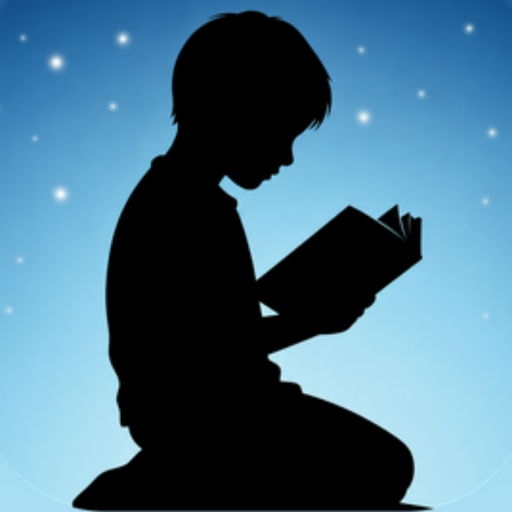
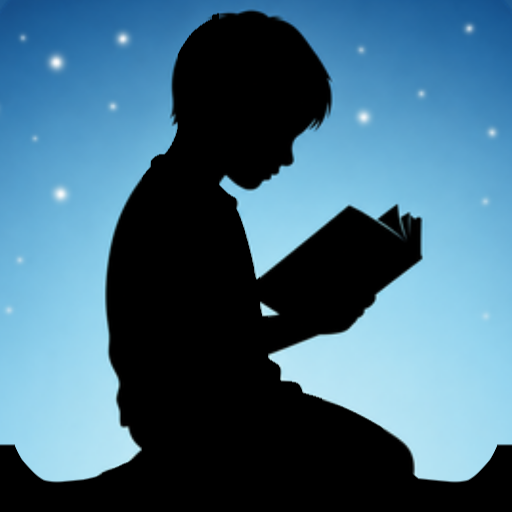
La colline de l'icône court d'un bord à l'autre, et suit la découpe du téléphone
La colline ne touchait le bas de l'image que sur les 60% du milieu : il manquait
102px de chaque côté, exactement 20%. Aux extrémités elle laissait voir le ciel,
et on apercevait ses deux pointes — d'où l'impression d'une colline posée là,
coupée, au lieu d'un paysage qui continue hors du cadre.

On ne redessine rien et on ne touche pas au personnage : on relève la ligne du
sol existante et on la CONTINUE par une courbe douce jusque dans les deux coins
du bas. Le monticule et l'enfant restent intacts au pixel près.

Un deuxième défaut est apparu en testant les masques réels. Un téléphone ne
montre jamais l'icône carrée : iOS la découpe en « squircle », dont le contour
bas REMONTE dans les coins. Un sol plat y laissait encore un liseré de ciel. Le
sol suit donc maintenant la courbe du masque, borné à 13% de hauteur — au-delà
on est hors de la forme visible de toute façon.

Mesuré sous le masque réel d'iOS : le ciel le long du contour bas passe de
32,6% à 5,1%. Le bord bas de l'image est sombre sur 100% de sa largeur, contre
60,2%. Les trois tailles (512, 192, 180) sont régénérées ensemble.

Retiré au passage : le panneau d'audience et tout son comptage, à la demande.
Le Profil retrouve exactement la géométrie qu'il avait avant qu'on l'ajoute.

Vérifié : géométrie identique à la v86 sur les huit écrans des deux
plateformes, 40 cas de clavier, touche de validation sur les quatre champs,
plafond de six joueurs.

diff --git a/index.html b/index.html
@@ -1557,13 +1557,6 @@
   .hero-verse-card.long .hero-verse-text{ font-size:clamp(0.84rem, 2.8vw, 1rem); line-height:1.42; }
   .hero-verse-ref{ font-family:'Poppins',sans-serif; font-weight:700; font-size:0.82rem; letter-spacing:0.08em; text-transform:uppercase; color:var(--gold-deep); }
 
-  /* ---------- Audience du jeu (créateur seulement) ---------- */
-  .stats-jeu{ margin-top:0.9rem; }
-  .sj-ligne{ display:flex; align-items:baseline; gap:0.55rem; padding:0.28rem 0; }
-  .sj-nb{ font-family:'Poppins',sans-serif; font-weight:700; font-size:1.35rem; color:var(--primary); min-width:3.2rem; }
-  .sj-lbl{ font-size:0.88rem; color:var(--ink-soft); }
-  .sj-note{ margin:0.5rem 0 0; font-size:0.76rem; color:var(--ink-soft); opacity:0.8; line-height:1.45; }
-
   /* ---------- Partage du résultat ---------- */
   .end-bottom{ margin-top:auto; }
   .share-line{ display:flex; align-items:center; justify-content:center; gap:0.45rem; margin:0.4rem auto 0; background:none; border:none; color:rgba(255,255,255,0.94); font-weight:600; font-size:0.86rem; text-shadow:0 1px 8px rgba(0,0,0,0.45); padding:0.4rem 0.8rem; }
@@ -3474,55 +3467,6 @@ function initSupa(){
 }
 function onlineConfigured(){ return !!(SUPABASE_URL && SUPABASE_ANON_KEY && window.supabase); }
 
-/* ===================== COMBIEN DE MONDE JOUE ? =====================
-   Deux chiffres, pas un de plus : combien d'appareils ont ouvert le jeu, et
-   combien l'ont installé sur leur écran d'accueil.
-   CE QUI PART D'ICI : un identifiant tiré au hasard sur l'appareil, la date, et
-   « installé oui/non ». Pas de nom, pas de couleur, pas de score, pas d'adresse,
-   aucun cookie. L'identifiant ne dit rien de qui que ce soit — il sert seulement
-   à ne pas compter dix fois le même téléphone.
-   ET SEULEMENT SI LA TABLE EXISTE. Tant qu'elle n'a pas été créée côté Supabase,
-   l'appel échoue silencieusement et rien n'est enregistré nulle part : le
-   comptage ne démarre que le jour où on le décide vraiment.
-   UNE FOIS PAR JOUR AU PLUS, pour ne pas bavarder à chaque ouverture. */
-function idAppareil(){
-  try{
-    let v = localStorage.getItem("bt_appareil");
-    if(!v){ v = Math.random().toString(36).slice(2, 12) + Date.now().toString(36); localStorage.setItem("bt_appareil", v); }
-    return v;
-  }catch(e){ return null; }
-}
-function compteVisite(){
-  const id = idAppareil();
-  if(!id) return;
-  const jour = new Date().toISOString().slice(0, 10);
-  try{ if(localStorage.getItem("bt_compte_jour") === jour) return; }catch(e){}
-  const supa = initSupa();
-  if(!supa) return;
-  /* on n'envoie PAS la première visite : la base la pose elle-même à la
-     création, et ne pas la renvoyer garantit qu'une visite suivante ne
-     l'écrase pas. */
-  try{
-    supa.from("visites").upsert({ id: id, derniere_visite: new Date().toISOString(), installe: !!isStandalone },
-                                { onConflict: "id" })
-      .then((r)=>{ if(!r || !r.error){ try{ localStorage.setItem("bt_compte_jour", jour); }catch(e){} } })
-      .catch(()=>{});
-  }catch(e){}
-}
-/* Les chiffres ne se lisent que par une fonction d'agrégat : elle ne rend que
-   des totaux, jamais les lignes. Même en fouillant, on ne peut pas remonter la
-   liste des appareils. */
-function litStats(){
-  const supa = initSupa();
-  if(!supa) return Promise.resolve(null);
-  try{
-    return supa.rpc("stats_visites").then((r)=>{
-      if(!r || r.error || !r.data) return null;
-      const d = Array.isArray(r.data) ? r.data[0] : r.data;
-      return d ? { appareils:+d.appareils||0, installations:+d.installations||0, actifs:+d.actifs_30j||0 } : null;
-    }).catch(()=>null);
-  }catch(e){ return Promise.resolve(null); }
-}
 
 /* ===================== SEED / DECK SYNCHRONISÉ ===================== */
 function mulberry32(a){ return function(){ a|=0; a=a+0x6D2B79F5|0; let t=Math.imul(a^a>>>15,1|a); t=t+Math.imul(t^t>>>7,61|t)^t; return ((t^t>>>14)>>>0)/4294967296; }; }
@@ -6905,25 +6849,6 @@ function promptCreator(){
   });
 }
 
-/* Le panneau se pose TOUT EN BAS de l'écran, sous la couleur. Placé plus haut,
-   il repoussait le champ du nom vers le bas — et le champ devait alors remonter
-   de 200px à l'ouverture du clavier, au lieu de ne pas bouger. Une information
-   qu'on consulte ne doit pas gêner la tâche qu'on est venu faire.
-   Il n'existe que pour le créateur — c'est un choix d'AFFICHAGE : il
-   garde le jeu net pour tout le monde. Ce n'est pas un verrou : le badge vit sur
-   le téléphone, quelqu'un qui connaîtrait le code verrait les mêmes chiffres.
-   Pour deux totaux anonymes, c'est sans conséquence. */
-function remplitStats(){
-  if(!profile.isCreator) return;
-  const note = document.getElementById("sjNote");
-  litStats().then((s)=>{
-    if(!document.getElementById("statsJeu")) return;       // l'écran a changé entre-temps
-    if(!s){ if(note) note.textContent = "Comptage pas encore activé (la table reste à créer)."; return; }
-    const pose = (id, n)=>{ const e = document.getElementById(id); if(e) e.textContent = n.toLocaleString("fr-FR"); };
-    pose("sjInstall", s.installations); pose("sjAppareils", s.appareils); pose("sjActifs", s.actifs);
-    if(note) note.textContent = "Compté sans nom, sans cookie : un appareil, une ligne.";
-  });
-}
 function renderProfile(){
   const el=document.createElement("div"); el.className="screen";
   el.innerHTML = `
@@ -6940,17 +6865,9 @@ function renderProfile(){
     <div class="color-row">
       ${TEAM_COLORS.map(c=>`<button class="color-dot${c===profile.color?' sel':''}" style="background:${c}" data-c="${c}" onclick="setProfileColor('${c}')" aria-label="couleur"></button>`).join("")}
     </div>
-    ${profile.isCreator?`<div class="card stats-jeu" id="statsJeu">
-      <h2>Audience du jeu</h2>
-      <div class="sj-ligne"><span class="sj-nb" id="sjInstall">—</span><span class="sj-lbl">installations</span></div>
-      <div class="sj-ligne"><span class="sj-nb" id="sjAppareils">—</span><span class="sj-lbl">appareils au total</span></div>
-      <div class="sj-ligne"><span class="sj-nb" id="sjActifs">—</span><span class="sj-lbl">actifs ces 30 jours</span></div>
-      <p class="sj-note" id="sjNote">Lecture en cours…</p>
-    </div>`:""}
     <div class="flex-sp"></div>
     <button class="btn-primary" onclick="saveProfileAndBack()">Enregistrer</button>
   `;
-  if(profile.isCreator) setTimeout(remplitStats, 0);
   return el;
 }
 
@@ -8157,11 +8074,6 @@ const IS_ANDROID = /Android/i.test(navigator.userAgent);
    sur iPad/desktop web, elle n'a rien à faire. */
 const IS_PHONE = (IS_IOS || IS_ANDROID) && Math.min(screen.width || 9999, screen.height || 9999) <= 500;
 if(isStandalone){ document.documentElement.classList.add("is-standalone"); }
-/* Comptage de l'audience : APRÈS le démarrage, jamais pendant. Il est repoussé
-   hors du chemin de lancement (et n'a lieu qu'une fois par jour), pour qu'il ne
-   coûte pas un millième de seconde à l'ouverture du jeu. S'il n'y a pas de
-   réseau, ou si la table n'existe pas encore, il ne se passe simplement rien. */
-setTimeout(()=>{ try{ compteVisite(); }catch(e){} }, 3000);
 function fsAvailable(){ const el = document.documentElement; return !isStandalone && !!(el.requestFullscreen || el.webkitRequestFullscreen); }
 function fsActive(){ return !!(document.fullscreenElement || document.webkitFullscreenElement); }
 function toggleFullscreen(){

diff --git a/sw.js b/sw.js
@@ -1,6 +1,6 @@
 /* BibleTrivia — service worker : rend l'app jouable hors connexion.
    À déposer à côté de index.html (même dossier, nom exact "sw.js"). */
-const CACHE = "bibletrivia-v87";
+const CACHE = "bibletrivia-v88";
 const CORE = ["./", "./index.html", "./manifest.json", "./apple-touch-icon.png", "./icon-192.png", "./icon-512.png", "./fonts/inter-latin.woff2", "./fonts/inter-latinext.woff2", "./fonts/fraunces-italic-latin.woff2", "./fonts/fraunces-italic-latinext.woff2", "./fonts/poppins-500-latin.woff2", "./fonts/poppins-500-latinext.woff2", "./fonts/poppins-600-latin.woff2", "./fonts/poppins-600-latinext.woff2", "./fonts/poppins-700-latin.woff2", "./fonts/poppins-700-latinext.woff2"];
 self.addEventListener("install", (e) => {
   e.waitUntil(caches.open(CACHE).then((c) => c.addAll(CORE)).catch(() => {}));
